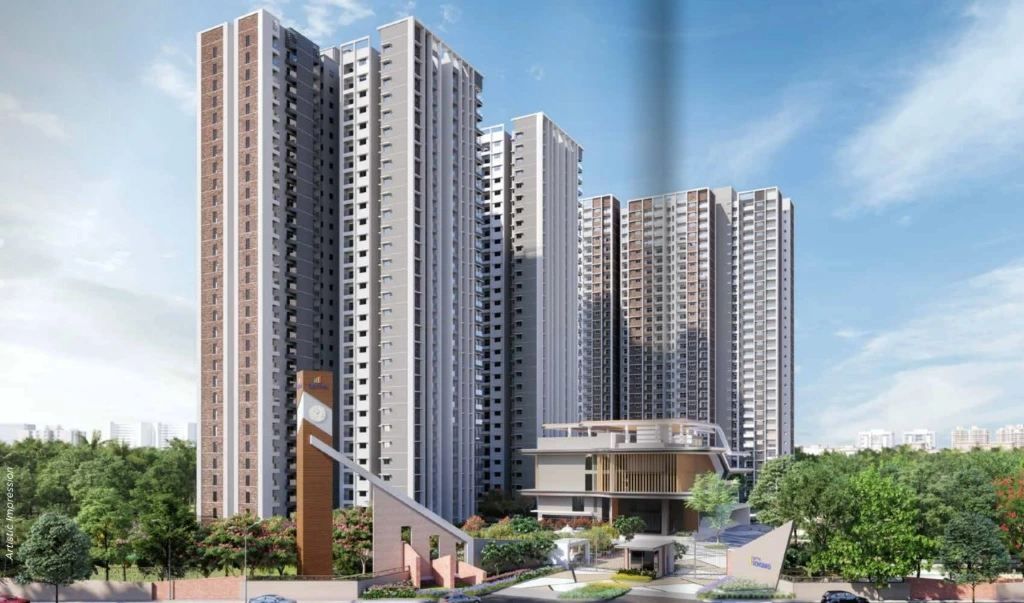
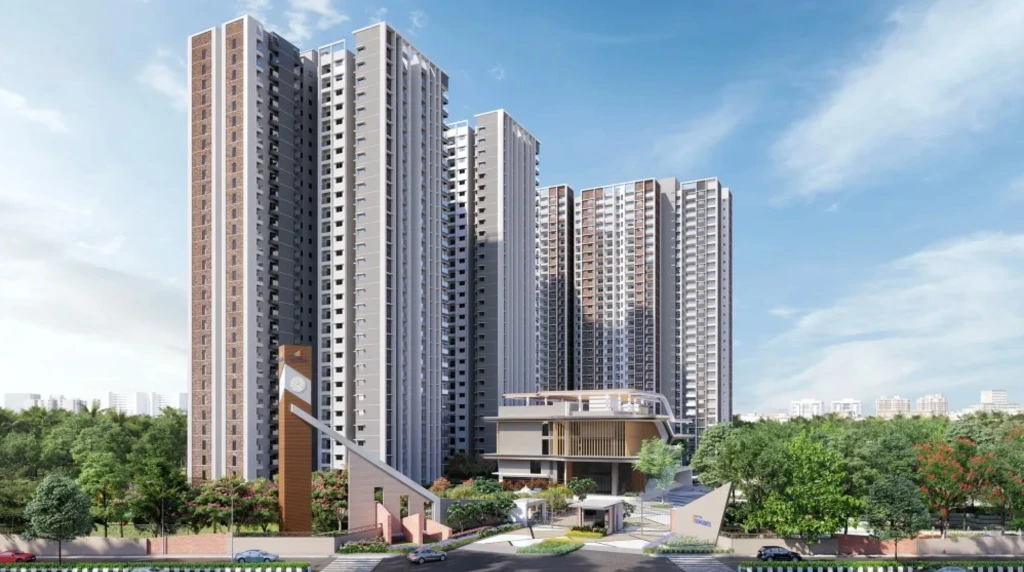
Replace first fold gallery images on Sattva Songbird page with 5 official architectural rendering WebP assets

diff --git a/property/sattva-songbird-budigere-road/index.html b/property/sattva-songbird-budigere-road/index.html
@@ -256,7 +256,7 @@ html { scroll-behavior: smooth; }
       <!-- Mobile First Fold / Hero Section (<= 768px Only) -->
       <div class="ak-mobile-hero-v5">
         <div class="ak-mobile-img-box" onclick="openAkLightbox(0);">
-          <img src="../../style-guide/assets/songbird/sattva_songbird_hero_elevation_day.webp?v=20260829_v2" alt="Sattva Songbird Daytime Elevation View">
+          <img src="../../style-guide/assets/songbird/sattva_songbird_hero_elevation_day.webp?v=20260829_v3" alt="Sattva Songbird Daytime Elevation View">
           <div class="ak-mobile-badge-top-left">1 / 6</div>
           <button type="button" class="ak-mobile-share-btn" onclick="event.stopPropagation(); handlePropertyShare(event);" aria-label="Share property">
             <i data-feather="share-2" style="width:14px; height:14px; color:#182A3D;"></i>
@@ -308,19 +308,19 @@ html { scroll-behavior: smooth; }
 <div class="prop-hero-grid" style="align-items: stretch; gap: 36px;">
 <div class="ak-gallery-wrapper" id="akHeroGallery" style="display: flex; flex-direction: column; height: 100%; min-height: 0;">
 <div class="ak-main-img-box" onclick="openAkLightbox(window.akGalleryIndex || 0);" style="flex: 1; aspect-ratio: auto !important; min-height: 0; position: relative;">
-<img id="akMainHeroImage" src="../../style-guide/assets/songbird/sattva_songbird_hero_elevation_day.webp?v=20260829_v2" alt="Sattva Songbird Daytime Elevation View" style="position: absolute; top: 0; left: 0; width: 100%; height: 100%; object-fit: cover;">
+<img id="akMainHeroImage" src="../../style-guide/assets/songbird/sattva_songbird_hero_elevation_day.webp?v=20260829_v3" alt="Sattva Songbird Daytime Elevation View" style="position: absolute; top: 0; left: 0; width: 100%; height: 100%; object-fit: cover;">
 <video id="akMainHeroVideo" style="display:none; position: absolute; top: 0; left: 0; width: 100%; height: 100%; object-fit: cover;" muted loop playsinline></video>
 <button class="ak-gallery-nav prev" aria-label="Previous image" onclick="event.stopPropagation(); akGalleryPrev();"><i data-feather="chevron-left"></i></button>
 <button class="ak-gallery-nav next" aria-label="Next image" onclick="event.stopPropagation(); akGalleryNext();"><i data-feather="chevron-right"></i></button>
 </div>
 <div class="ak-gallery-bottom-bar">
 <div class="ak-thumb-strip">
-<button class="ak-thumb-btn active" onclick="akGallerySelect(0)" aria-label="View photo 1"><img src="../../style-guide/assets/songbird/sattva_songbird_hero_elevation_day.webp?v=20260829_v2" alt="Daytime Elevation View"></button>
-<button class="ak-thumb-btn" onclick="akGallerySelect(1)" aria-label="View photo 2"><img src="../../style-guide/assets/songbird/sattva_songbird_construction_tower1.webp?v=20260829_v2" alt="Tower 1 Construction Progress"></button>
-<button class="ak-thumb-btn" onclick="akGallerySelect(2)" aria-label="View photo 3"><img src="../../style-guide/assets/songbird/sattva_songbird_construction_satellite_clubhouse.webp?v=20260829_v2" alt="Satellite Clubhouse Structure"></button>
-<button class="ak-thumb-btn" onclick="akGallerySelect(3)" aria-label="View photo 4"><img src="../../style-guide/assets/songbird/sattva_songbird_hero_elevation_day.webp?v=20260829_v2" alt="Towers Elevation View"></button>
-<button class="ak-thumb-btn" onclick="akGallerySelect(4)" aria-label="View photo 5"><img src="../../style-guide/assets/songbird/sattva_songbird_construction_tower1.webp?v=20260829_v2" alt="Site Progress View"></button>
-<button class="ak-thumb-btn" onclick="akGallerySelect(5)" aria-label="Play video" style="position:relative;"><img src="../../style-guide/assets/songbird/sattva_songbird_hero_elevation_day.webp?v=20260829_v2" alt="Video"><div style="position:absolute; inset:0; display:flex; align-items:center; justify-content:center; background:rgba(0,0,0,0.3);"><i data-feather="play-circle" style="color:#FFF; width:24px; height:24px;"></i></div></button>
+<button class="ak-thumb-btn active" onclick="akGallerySelect(0)" aria-label="View photo 1"><img src="../../style-guide/assets/songbird/sattva_songbird_hero_elevation_day.webp?v=20260829_v3" alt="Daytime Elevation View"></button>
+<button class="ak-thumb-btn" onclick="akGallerySelect(1)" aria-label="View photo 2"><img src="../../style-guide/assets/songbird/sattva_songbird_hero_masterplan_wide_aerial.webp?v=20260829_v3" alt="Wide Masterplan Aerial View"></button>
+<button class="ak-thumb-btn" onclick="akGallerySelect(2)" aria-label="View photo 3"><img src="../../style-guide/assets/songbird/sattva_songbird_hero_towers_rowhouses_aerial.webp?v=20260829_v3" alt="Towers & Row Houses View"></button>
+<button class="ak-thumb-btn" onclick="akGallerySelect(3)" aria-label="View photo 4"><img src="../../style-guide/assets/songbird/sattva_songbird_hero_towers_front_elevation.webp?v=20260829_v3" alt="Front Elevation View"></button>
+<button class="ak-thumb-btn" onclick="akGallerySelect(4)" aria-label="View photo 5"><img src="../../style-guide/assets/songbird/sattva_songbird_hero_layout_top_down.webp?v=20260829_v3" alt="Top-Down Masterplan Layout"></button>
+<button class="ak-thumb-btn" onclick="akGallerySelect(5)" aria-label="Play video" style="position:relative;"><img src="../../style-guide/assets/songbird/sattva_songbird_hero_elevation_day.webp?v=20260829_v3" alt="Video"><div style="position:absolute; inset:0; display:flex; align-items:center; justify-content:center; background:rgba(0,0,0,0.3);"><i data-feather="play-circle" style="color:#FFF; width:24px; height:24px;"></i></div></button>
 </div>
 <button class="ak-view-all-text-btn" onclick="openAkLightbox(window.akGalleryIndex || 0);" style="background:#182A3D; color:#FFF; border:none; padding:0.55rem 1.15rem; font-size:0.9rem; font-weight:600; font-family:'Manrope',sans-serif; border-radius:24px; cursor:pointer; box-shadow:0 4px 12px rgba(0,0,0,0.15); transition:background 0.2s ease;" onmouseover="this.style.background='#0D1B24'" onmouseout="this.style.background='#182A3D'">View all photos &rarr;</button>
 </div>
@@ -1305,12 +1305,12 @@ function calculateEMI() {
 
 window.akGalleryIndex = 0;
 const akGalleryMedia = [
-  { type: 'image', src: '../../style-guide/assets/songbird/sattva_songbird_hero_elevation_day.webp?v=20260829_v2', alt: 'Daytime Elevation & Entrance Clock Tower View' },
-  { type: 'image', src: '../../style-guide/assets/songbird/sattva_songbird_construction_tower1.webp?v=20260829_v2', alt: 'Tower 1 - 12th Floor Work in Progress' },
-  { type: 'image', src: '../../style-guide/assets/songbird/sattva_songbird_construction_satellite_clubhouse.webp?v=20260829_v2', alt: 'Tower 4 - Satellite Clubhouse Structure Work Completed' },
-  { type: 'image', src: '../../style-guide/assets/songbird/sattva_songbird_hero_elevation_day.webp?v=20260829_v2', alt: 'Development Towers Overview' },
-  { type: 'image', src: '../../style-guide/assets/songbird/sattva_songbird_construction_tower1.webp?v=20260829_v2', alt: 'Site Construction Update' },
-  { type: 'video', src: '../../style-guide/assets/sattva_songbird_walkthrough.mp4?v=20260829_v1', poster: '../../style-guide/assets/songbird/sattva_songbird_hero_elevation_day.webp?v=20260829_v2', alt: 'Official Walkthrough Video' }
+  { type: 'image', src: '../../style-guide/assets/songbird/sattva_songbird_hero_elevation_day.webp?v=20260829_v3', alt: 'Daytime Elevation & Entrance Clock Tower View' },
+  { type: 'image', src: '../../style-guide/assets/songbird/sattva_songbird_hero_masterplan_wide_aerial.webp?v=20260829_v3', alt: 'Wide Masterplan Aerial View' },
+  { type: 'image', src: '../../style-guide/assets/songbird/sattva_songbird_hero_towers_rowhouses_aerial.webp?v=20260829_v3', alt: 'Towers, Row Houses & Forest Surroundings' },
+  { type: 'image', src: '../../style-guide/assets/songbird/sattva_songbird_hero_towers_front_elevation.webp?v=20260829_v3', alt: 'Residential High-Rise Towers Elevation' },
+  { type: 'image', src: '../../style-guide/assets/songbird/sattva_songbird_hero_layout_top_down.webp?v=20260829_v3', alt: 'Masterplan Site Layout Top-Down View' },
+  { type: 'video', src: '../../style-guide/assets/sattva_songbird_walkthrough.mp4?v=20260829_v1', poster: '../../style-guide/assets/songbird/sattva_songbird_hero_elevation_day.webp?v=20260829_v3', alt: 'Official Walkthrough Video' }
 ];
 
 function updateAkGalleryUI() {
